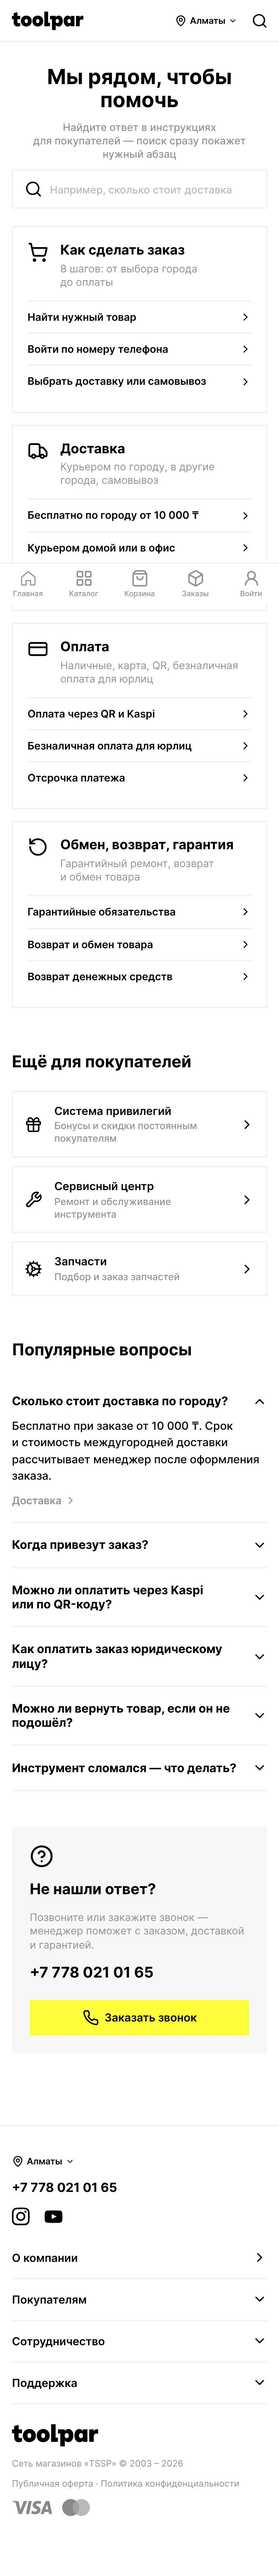
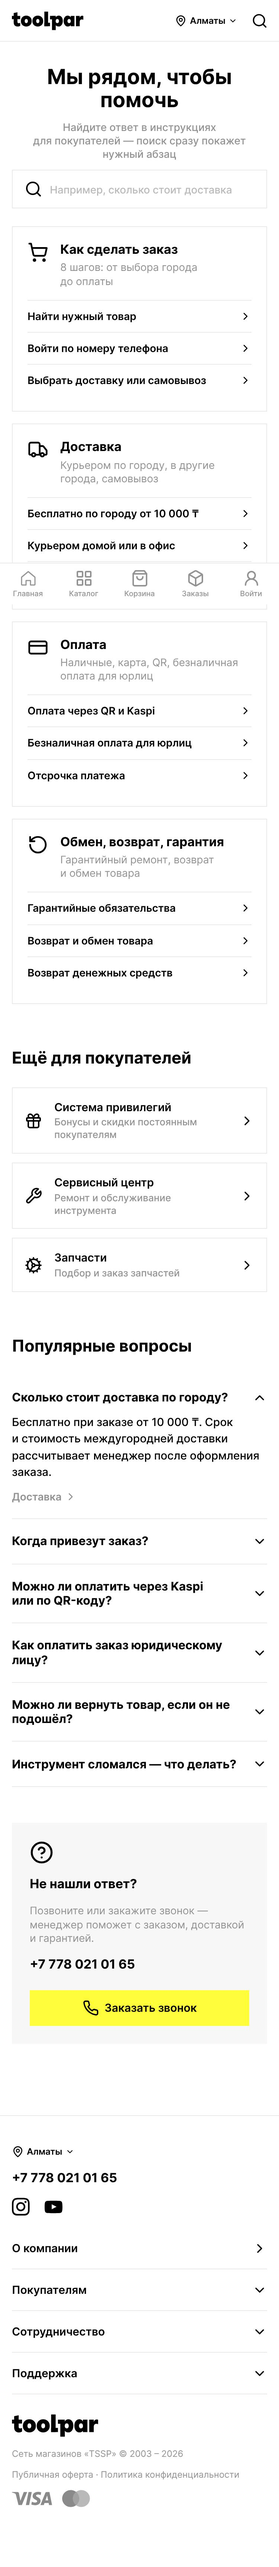
Dev: mobile type follows DS scale (Display 28, H1 22, H2 18, H3 17); docs and screens updated
Claude-Session: https://claude.ai/code/session_01AkngT9ah64rdTKCqmc61s4

diff --git a/dev-dfc314/index.html b/dev-dfc314/index.html
@@ -938,15 +938,18 @@ html,body{overflow-x:clip}
 .m .lp{padding:16px 0 56px}
 .m .lp-hero{height:auto;flex-direction:column;align-items:stretch;margin:0 -16px}
 .m .lp-hero picture,.m .lp-hero img{position:static;height:auto;display:block}.m .lp-hero picture{order:2}
-.m .lp-ht{width:auto;margin:0;padding:32px 16px 8px;gap:16px}.m .lp-ht h1{font-size:32px}.m .lp-lead{font-size:16px}
+.m .lp-ht{width:auto;margin:0;padding:32px 16px 8px;gap:16px}.m .lp-ht h1{font-size:28px}.m .lp-lead{font-size:15px}
 .m .lp-join{width:100%;margin-top:8px;height:48px}
-.m .lp .lp-facts{grid-template-columns:1fr;gap:0;margin-top:24px}.m .lp-facts li{padding:16px 0;border-top:1px solid var(--border-default)}.m .lp-facts li:first-child{border-top:0;padding-top:0}.m .lp-facts .t-h1{font-size:26px}.m .lp-facts .t-body-l{font-size:14px}
+.m .lp .lp-facts{grid-template-columns:1fr;gap:0;margin-top:24px}.m .lp-facts li{padding:16px 0;border-top:1px solid var(--border-default)}.m .lp-facts li:first-child{border-top:0;padding-top:0}.m .lp-facts .t-h1{font-size:22px}.m .lp-facts .t-body-l{font-size:14px}
 .m .lp-sec,.m .lp .h-row{margin-top:64px}
-.m .lp-levels{grid-template-columns:1fr;gap:16px}.m .lp-lv{padding:28px 20px 20px;gap:20px}.m .lp-lv .rate{padding-bottom:20px}.m .lp-lv .t-h2{font-size:22px}
+.m .lp-levels{grid-template-columns:1fr;gap:16px}.m .lp-lv{padding:28px 20px 20px;gap:20px}.m .lp-lv .rate{padding-bottom:20px}.m .lp-lv .t-h2{font-size:18px}
 .m .lp-all{flex-direction:column;align-items:flex-start;gap:12px;padding:20px}
 .m .lp-steps{grid-template-columns:1fr;gap:8px}.m .lp-steps .ar{display:none}.m .lp-st{padding:16px;gap:16px}
 .m .lp-imp{grid-template-columns:1fr;gap:24px}.m .lp-imp>div{padding-top:20px}.m .lp-imp>div>.ico{width:28px;height:28px}.m .lp-imp>div>div{padding-top:4px}
 
+/* Мобильная шкала кеглей (Figma: Layout = Mobile) */
+.m .t-display{font-size:28px}.m .t-h1{font-size:22px}.m .t-h2{font-size:18px}.m .t-h3{font-size:17px}.m .t-price-xl{font-size:30px}.m .t-price-old-l{font-size:16px}
+.m .lp-lv .rate .t-display{line-height:1}
 /* Мобильные версии: Покупателям, Бренды, Спасибо (обёртка .m .mpg) */
 .m .mpg .wrap{padding-left:16px;padding-right:16px}
 .m .mpg .crumbs{font-size:12px}
@@ -956,7 +959,7 @@ html,body{overflow-x:clip}
 .m .hs{width:100%}.m .hs-field{height:52px;padding:0 12px 0 16px;gap:10px}.m .hs-field input{font-size:16px}
 .m .hs-res,.m .hs.hs-m .hs-res{width:100%;max-height:60vh}.m .hs-item{padding:14px 16px}
 .m .h-sec{margin-top:48px}.m .h-sec.h-sec-top{margin-top:24px}
-.m .h-topics{grid-template-columns:1fr;gap:16px}.m .h-topic{padding:20px;gap:16px}.m .h-topic .hd>.ico{width:28px;height:28px}.m .h-topic .hd h3{font-size:18px}.m .h-topic .ln button{font-size:14px}
+.m .h-topics{grid-template-columns:1fr;gap:16px}.m .h-topic{padding:20px;gap:16px}.m .h-topic .hd>.ico{width:28px;height:28px}.m .h-topic .hd h3{font-size:17px}.m .h-topic .ln button{font-size:14px}
 .m .h-more{grid-template-columns:1fr;gap:12px}.m .h-tl{padding:16px}
 .m .h-row{flex-direction:column;gap:48px}.m .h-faqw{width:100%}.m .h-fq .a{padding-right:0}.m .h-contact{width:100%;padding:24px}
 .m .h-art{display:block}.m .h-side,.m .h-toc{display:none}.m .help.art .crumbs{margin-bottom:16px!important}
@@ -972,7 +975,7 @@ html,body{overflow-x:clip}
 .m .bp-pop{grid-template-columns:repeat(2,1fr);gap:8px}.m .bp-pop .brand-tile{height:80px;border:1px solid var(--border-default)}.m .bp-pop .brand-tile img{max-width:70%;max-height:40px}
 .m .bp-all{margin-top:48px}
 .m .bp-abc>div{flex-wrap:nowrap;overflow-x:auto;margin:0 -16px;padding:0 16px;scrollbar-width:none}.m .bp-abc>div::-webkit-scrollbar{display:none}
-.m .bp-g{gap:12px;padding:0 0 32px;scroll-margin-top:72px}.m .bp-g>b{font-size:24px}
+.m .bp-g{gap:12px;padding:0 0 32px;scroll-margin-top:72px}.m .bp-g>b{font-size:18px}
 .m .bp-g .names{width:auto;columns:2;column-gap:16px}.m .bp-g .names button{font-size:14px}
 /* Спасибо за покупку */
 /* Футер: аккордеоны со ссылками */
@@ -984,29 +987,29 @@ html,body{overflow-x:clip}
 .m .m-accgo{width:calc(100% - 32px);text-align:left}
 .m .hs-field input::placeholder{font-size:14px;color:var(--text-tertiary)}
 .m .mpg .sect{gap:16px}.m .mpg .sect-head h2{font-size:22px;line-height:1.1}
-.m .h-steps .row>div{padding-top:5px;gap:6px}.m .h-steps h3{font-size:18px;line-height:22px}
+.m .h-steps .row>div{padding-top:5px;gap:6px}.m .h-steps h3{font-size:17px;line-height:22px}
 .m .ab{padding:16px 0 56px}.m .ab-top{flex-direction:column;gap:20px;padding-top:16px}.m .ab-top .ab-hero{order:0;width:100%;height:auto;aspect-ratio:4/3}.m .ab-mis{width:auto}.m .ab-mis h1{font-size:24px}
 
 .m .ab-mis{gap:16px}
 .m .ab-sec{margin-top:64px;gap:24px}
 .m .ab-stats{grid-template-columns:1fr 1fr;gap:28px 16px}.m .ab-starr{display:none}.m .ab-stats b{font-size:28px}.m .ab-stats span{font-size:12px}
-.m .ab-h{font-size:24px;text-align:left}.m .ab-h br{display:none}
+.m .ab-h{font-size:22px;text-align:left}.m .ab-h br{display:none}
 .m .ab-map{aspect-ratio:1/1}.m .ab-city.bt{flex-direction:column;align-items:flex-end;gap:3px;transform:translate(calc(-100% + 3px),-3px)}.m .ab-city{gap:2px;transform:translate(-3px,-50%)}.m .ab-city i{width:6px;height:6px}.m .ab-city.l{transform:translate(calc(-100% + 3px),-50%)}.m .ab-city b{font-size:9px;line-height:11px;padding:1px 3px}.m .ab-country{font-size:8px;letter-spacing:.15em}
 
 .m .ab-hh .arrows{display:none}.m .ab-hist{gap:16px;margin:0 -16px;padding:0 16px;scroll-padding:0 16px}.m .ab-slide{width:280px}.m .ab-slide .ab-ph,.m .ab-slide .ab-img{height:187px;margin-bottom:16px}
-.m .ab-slide .t-display{font-size:32px;margin-bottom:8px}.m .ab-slide h3{font-size:18px;min-height:44px;line-height:1.2}.m .ab-slide p{font-size:14px}
-.m .ab-head{align-items:flex-start;text-align:left;gap:12px}.m .ab-head h2{font-size:24px;line-height:1.1}.m .ab-head p{width:auto;font-size:14px}
+.m .ab-slide .t-display{font-size:28px;margin-bottom:8px}.m .ab-slide h3{font-size:17px;min-height:44px;line-height:1.2}.m .ab-slide p{font-size:14px}
+.m .ab-head{align-items:flex-start;text-align:left;gap:12px}.m .ab-head h2{font-size:22px;line-height:1.1}.m .ab-head p{width:auto;font-size:14px}
 .m .ab-col{height:auto;display:flex;gap:12px;overflow-x:auto;margin:0 -16px;padding:0 16px;scrollbar-width:none}.m .ab-col::-webkit-scrollbar{display:none}
 .m .ab-col .ab-img{position:static;flex:none;width:200px!important;height:250px!important}
 .m .ab-grid{grid-template-columns:repeat(3,1fr);grid-template-rows:repeat(4,60px) auto repeat(4,60px);-webkit-mask-image:linear-gradient(to bottom,transparent,#000 14%,#000 86%,transparent);mask-image:linear-gradient(to bottom,transparent,#000 14%,#000 86%,transparent)}.m .ab-cl img{width:78%;height:28px}
 
-.m .ab-cc{padding:32px 4px;gap:16px;border-right:0}.m .ab-cc h2{font-size:24px}.m .ab-e,.m .ab-x{display:none}
+.m .ab-cc{padding:32px 4px;gap:16px;border-right:0}.m .ab-cc h2{font-size:22px}.m .ab-e,.m .ab-x{display:none}
 
 @media (hover:none){.h-topic .hd:hover,.h-topic .hd:hover h3,.h-topic .hd:hover p{color:inherit}.h-topic .hd:hover p{color:var(--text-secondary)}.h-fq .q:hover .t-h4,.h-topic .ln button:hover,.h-tl:hover{color:inherit}.h-tl:hover,.h-topic:hover{border-color:var(--border-default)}}
 
 /* Мобильные «Все акции» */
 .m .pp-tabs{padding-bottom:20px;overflow-x:auto;margin:0 -16px;padding-left:16px;padding-right:16px;scrollbar-width:none}.m .pp-tabs::-webkit-scrollbar{display:none}
-.m .pp-grid{grid-template-columns:1fr;gap:32px}.m .pp-grid .promo{gap:12px}.m .pp-grid .promo .t-h3{font-size:18px}
+.m .pp-grid{grid-template-columns:1fr;gap:32px}.m .pp-grid .promo{gap:12px}.m .pp-grid .promo .t-h3{font-size:17px}
 .thx-col{width:645px;margin:0 auto;display:flex;flex-direction:column;gap:32px;padding-top:24px}
 .thx-hero{display:flex;flex-direction:column;align-items:flex-start;gap:12px}.thx-t{display:flex;flex-direction:column;align-items:flex-start;gap:16px}.thx-hero .thx-mark{width:40px;height:40px;flex:none}.thx-hero h1{font-size:44px;line-height:1}
 .thx-card{border:1px solid var(--border-default);padding:32px;display:flex;flex-direction:column;gap:24px}
@@ -1035,7 +1038,7 @@ html,body{overflow-x:clip}
 .abh2 h1{margin:0;font-size:44px;font-weight:700;line-height:1.08;color:#fff}
 .abh-c{width:780px;max-width:100%;margin:0;padding-top:64px;display:flex;flex-direction:column;gap:16px;text-align:left}.abh-c p{margin:0;font-size:18px;font-weight:500;line-height:1.5;color:var(--text-secondary)}
 .m .abh2{height:auto;aspect-ratio:4/5}.m .abh2 img{object-position:center top}.m .abh2>.wrap{padding-bottom:24px}.m .abh2::after{background:linear-gradient(0deg,rgba(0,0,0,.72) 0%,rgba(0,0,0,.3) 45%,rgba(0,0,0,0) 70%)}
-.m .abh2 h1{font-size:26px}.m .abh2 h1 br{display:none}
+.m .abh2 h1{font-size:28px}.m .abh2 h1 br{display:none}
 .m .abh-c{width:auto;padding-top:28px;gap:12px}.m .abh-c p{font-size:15px}
 
 .hdr-solid .m </style>

diff --git a/dev-dfc314/docs/design-system.md b/dev-dfc314/docs/design-system.md
@@ -49,6 +49,8 @@
 | Price/XL, Price/L | 36 и 21 Bold, tabular-nums | 30 и 17 | цена в товаре и в карточке |
 | Price/Old L, Price/Old | 18 и 13 Semi Bold, зачёркнутая | 16 и 12 | старая цена |
 
+На мобилке кегли меняются одной шкалой (в прототипе — правила `.m .t-display`, `.m .t-h1` и т. д., в Figma — режим Layout = Mobile на фрейме): заголовок страницы — Display 28, заголовок секции — H1 22, название карточки или уровня — H2 18, H3 17.
+
 Правила набора:
 - После коротких слов (1–2 буквы, а также «для, без, при, под, над, про, из-за, что, как, или») ставится неразрывный пробел, чтобы предлоги не висели в конце строки. В прототипе это делает функция `typo()`; в продакшне — при выводе текста или фильтром в CMS.
 - Заголовки H1 балансируются (`text-wrap: balance`). Где в макете стоит ручной перенос, он задан явно (`<br>` в заголовке «О компании», «Кешбэк до 5% / с каждой покупки»).

diff --git a/dev-dfc314/docs/pages.md b/dev-dfc314/docs/pages.md
@@ -96,7 +96,7 @@
    - фото на всю ширину окна, высота 640, градиент слева;
    - белый заголовок Display в 4 строки, в 64 px от низа;
    - фото: `hw.jpg` / `hw@2x.jpg`, фокус кадра 60% по горизонтали и 30% по вертикали.
-   - **Мобилка:** фото 4:5 (`about-m.jpg` и `about-m@3x.jpg`, кадр 375 × 469), заголовок под фото.
+   - **Мобилка:** фото 4:5 (`about-m.jpg` и `about-m@3x.jpg`, кадр 375 × 469), заголовок тоже на фото, внизу (отступ 24), градиент снизу вверх (0,72 → 0,3 на 45% → 0 на 70%).
 2. **Вступление:** два абзаца Body/Lead серым, ширина 780, выравнивание влево.
 3. **«Мы сегодня»:** 10 фактов в сетке 4 колонки, у каждого линия сверху; число Display, подпись Body/M Strong. На мобилке 2 колонки.
 4. **Карта:** «Наши магазины по всей стране: от Алматы до Уральска».
